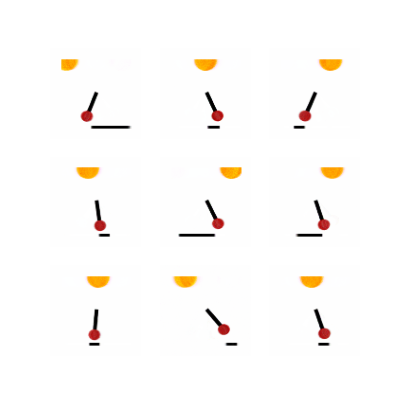
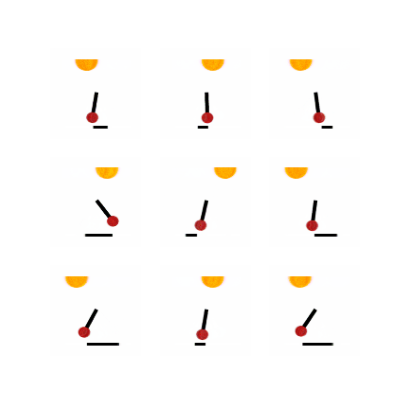
update model output -> with z and sem

diff --git a/utils/model_exo.py b/utils/model_exo.py
@@ -58,8 +58,7 @@ class VAE(nn.Module):
     def forward(self, input):
         h = self.encoder(nn.Flatten()(input.to(self.device)))
         exog_mean, exog_logvar = torch.split(h, self.config["latent_dim"], dim=1)
-        # variance scaling (exp(-0.5) ~ exp(0.5))
-        exog_logvar = torch.tanh(exog_logvar) * 0.5
+        exog_logvar = torch.tanh(exog_logvar) * 0.5 # variance scaling (exp(-0.5) ~ exp(0.5))
 
         """Latent Generating Process"""
         epsilon = exog_mean + torch.exp(exog_logvar / 2) * torch.randn(exog_mean.shape).to(self.device)
@@ -72,11 +71,14 @@ class VAE(nn.Module):
         # 2. with Bz
         # xhat = self.decoder(torch.matmul(latent, B))
         # 3. with Bz + epsilon (SEM)
-        epsilon = exog_mean + torch.exp(exog_logvar / 2) * torch.randn(exog_mean.shape).to(self.device)
-        xhat = self.decoder(torch.matmul(latent, B) + epsilon)
+        xhat1 = self.decoder(torch.matmul(latent, B) + epsilon)
         
-        xhat = xhat.view(-1, 96, 96, 3)
-        return exog_mean, exog_logvar, latent, B, xhat
+        # using z = Bz + epsilon relationship
+        xhat2 = self.decoder(latent)
+        
+        xhat1 = xhat1.view(-1, 96, 96, 3)
+        xhat2 = xhat2.view(-1, 96, 96, 3)
+        return exog_mean, exog_logvar, latent, B, xhat1, xhat2
 #%%
 def main():
     config = {

diff --git a/main_exo.py b/main_exo.py
@@ -108,12 +108,14 @@ def train(dataloader, model, config, optimizer, device):
         # with torch.autograd.set_detect_anomaly(True):    
         optimizer.zero_grad()
         
-        exog_mean, exog_logvar, latent, B, xhat = model(batch)
+        exog_mean, exog_logvar, latent, B, xhat1, xhat2 = model(batch)
         
         loss_ = []
         
         """reconstruction"""
-        recon = 0.5 * torch.pow(xhat - batch, 2).sum(axis=[1, 2, 3]).mean() # Gaussian
+        recon = 0.5 * torch.pow(xhat1 - batch, 2).sum(axis=[1, 2, 3]).mean() # Gaussian
+        recon += 0.5 * torch.pow(xhat2 - batch, 2).sum(axis=[1, 2, 3]).mean() # Gaussian
+        recon *= 0.5
         # recon = -((batch * torch.log(xhat) + (1. - batch) * torch.log(1. - xhat)).sum(axis=[1, 2, 3]).mean())
         loss_.append(('recon', recon))
 
@@ -159,7 +161,7 @@ def train(dataloader, model, config, optimizer, device):
         for x, y in loss_:
             logs[x] = logs.get(x) + [y.item()]
     
-    return logs, B, xhat
+    return logs, B, xhat1
 #%%
 def main():
     config = vars(get_args(debug=False)) # default configuration
